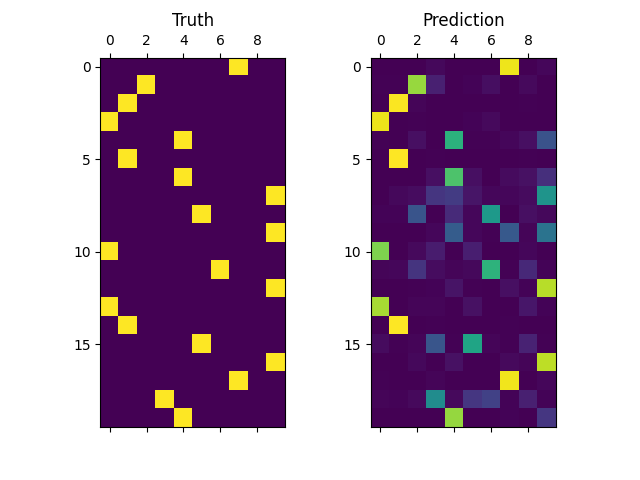
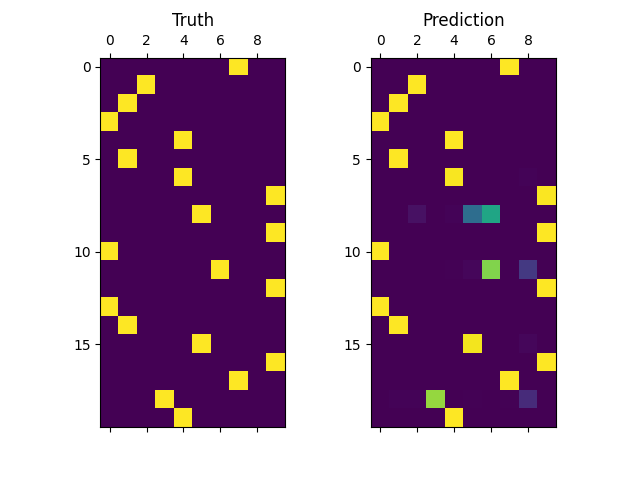
docs: :memo: Tweak mnist example to scale the input and use relu for better result

diff --git a/examples/mnist_train.rs b/examples/mnist_train.rs
@@ -9,9 +9,9 @@ use dezero::{
 fn main() {
     let (vec_x, vec_t) = load_mnist("data/mnist_test.csv");
 
-    let model = Model::new(MLP::new(&[100, 10], Box::new(F::sigmoid)));
+    let model = Model::new(MLP::new(&[100, 10], Box::new(F::relu)));
 
-    let mut optimizer = Momentum::new(0.01, 0.9, model.clone());
+    let mut optimizer = Momentum::new(0.1, 0.9, model.clone());
 
     let epochs = 5;
 
@@ -59,7 +59,7 @@ fn load_mnist(path: &str) -> (Vec<Array>, Vec<Array>) {
             data.append(&mut line[1..].to_vec());
             target.push(line[0]);
         }
-        let x = Array::new(data, vec![num_rows, num_cols]);
+        let x = Array::new(data, vec![num_rows, num_cols]) / 255.;
         let t = Array::new(target, vec![num_rows]);
         vec_data.push(x);
         vec_target.push(t);
